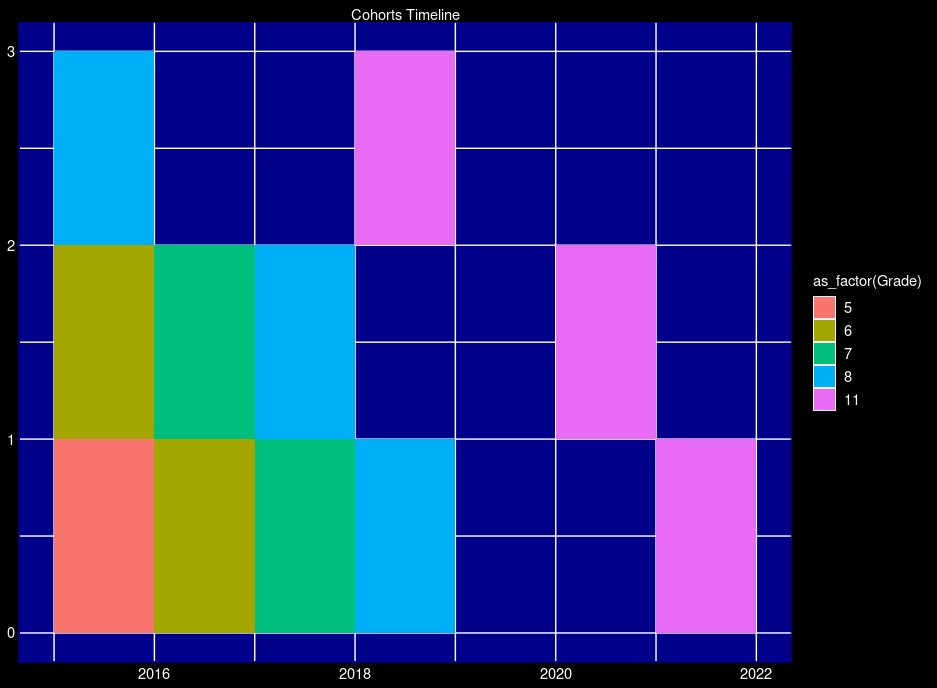
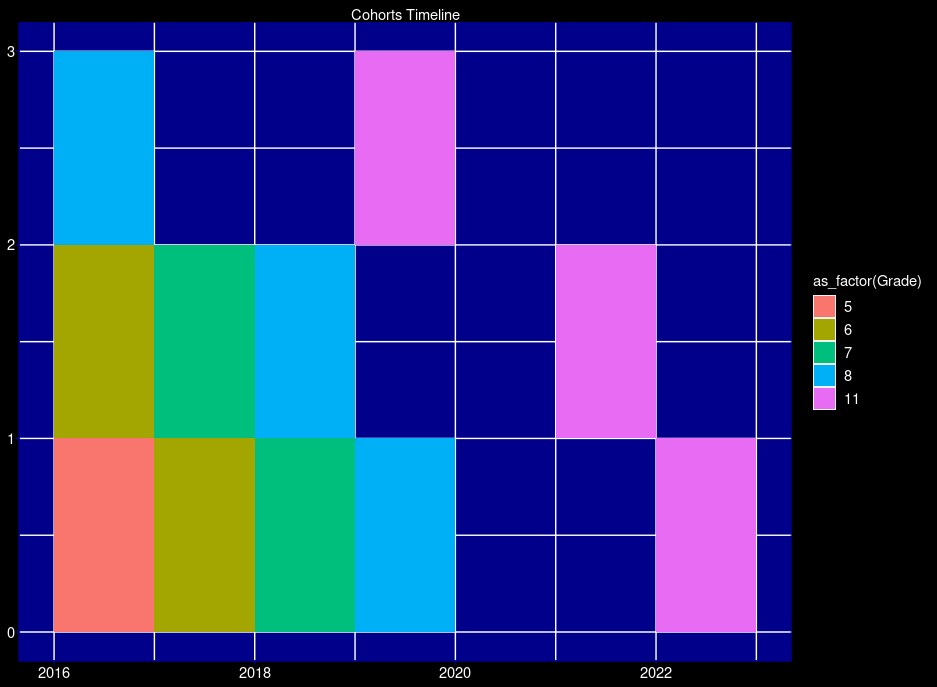
Update Objective 6: Cohorts timeline

diff --git a/README.md b/README.md
@@ -149,7 +149,13 @@ When comparing PSSA average scores between districts, there seems to be no corre
 
 ### Objective 6: Cohort analysis
 
+##### Cohort timeline
+
 ![obj6ac1](/Resources/Obj6_timeline.png)
+
+- Cohort 1: years: 2016 - 2022, grades: 5 - 8(PSSA), 11(Keystone)
+- Cohort 2: years: 2016 - 2021, grades: 6 - 8(PSSA), 11(Keystone)
+- Cohort 3: years: 2016 - 2019, grades: 8(PSSA),     11(Keystone)
 
 ##### Cohorts 1-3 All Grades All Scores
 
